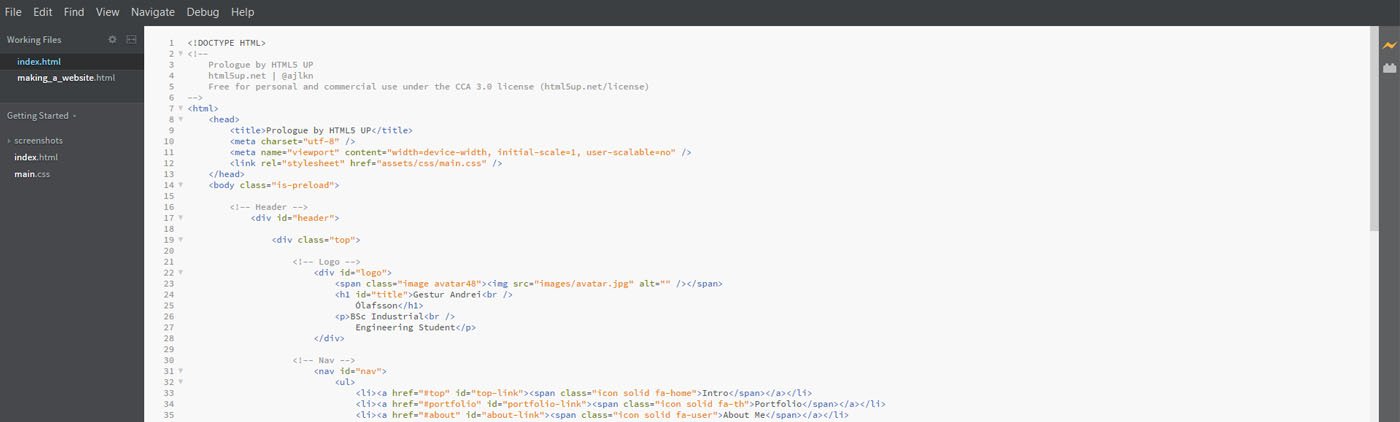
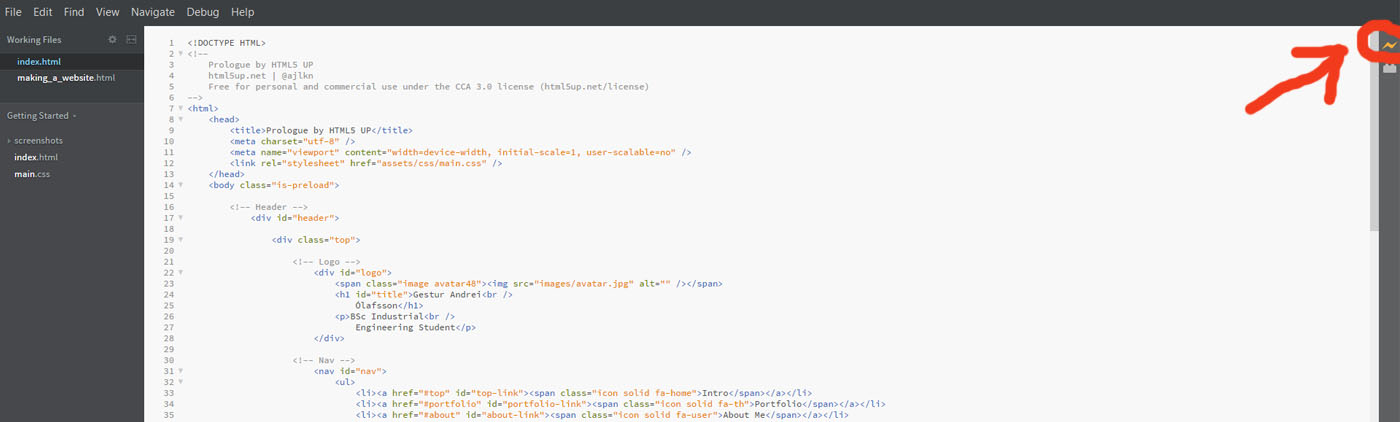
27.1.2020, 10:54

Changed region(s): [[0.8907, 0.0308, 1.0, 0.2773]]

diff --git a/making_a_website.html b/making_a_website.html
@@ -42,7 +42,7 @@
 					<!-- Social Icons -->
 						<ul class="icons">
 							<li><a href="#" class="icon brands fa-twitter"><span class="label">Twitter</span></a></li>
-							<li><a href="#" class="icon brands fa-facebook-f"><span class="label">Facebook</span></a></li>
+							<li><a href="https://www.facebook.com/dreiddi" target="_blank" class="icon brands fa-facebook-f"><span class="label">Facebook</span></a></li>
 							<li><a href="#" class="icon brands fa-github"><span class="label">Github</span></a></li>
 							<li><a href="#" class="icon brands fa-dribbble"><span class="label">Dribbble</span></a></li>
 							<li><a href="#" class="icon solid fa-envelope"><span class="label">Email</span></a></li>
@@ -61,7 +61,7 @@
 
 							<header>
 								<h2 class="alt"><strong>Making a website</strong></h2>
-								<p>Below you will find a step by step description of the process of this </p>
+								<p>Below you will find a detailed description of the project process.</p>
 							</header>
 
                             <footer>
@@ -77,25 +77,75 @@
 						<div class="container">
                             
                             <p>In this project the objective was to make a functional website that anyone could access throug a web browser.
-                            the website had to be made with HTML5 and be a work of my own creation.<br /><br />
-                            Because I have never worked with HTML5 before I started with finding a template for a website online.
-                            I picked a template named Prologue from this website: https://html5up.net/<br /><br />
+                            The website had to be made with HTML5 and be a work of my own creation.<br /><br />
+                            Because I had never worked with HTML5 before I started with finding a template for a website online.
+                            I picked a template named Prologue from this website: <a href="https://html5up.net" target="_blank">https://html5up.net</a><br /><br />
                             </p>
 
 							<a href="#" class="image featured"><img src="images/making_a_website_pic01.png" alt="" /></a>
 
-							<p>Tincidunt eu elit diam magnis pretium accumsan etiam id urna. Ridiculus
-							ultricies curae quis et rhoncus velit. Lobortis elementum aliquet nec vitae
-							laoreet eget cubilia quam non etiam odio tincidunt montes. Elementum sem
-							parturient nulla quam placerat viverra mauris non cum elit tempus ullamcorper
-							dolor. Libero rutrum ut lacinia donec curae mus vel quisque sociis nec
-							ornare iaculis.</p>
+							<p>For this project I downloaded Brackets, Git and set up an account at Github.com.<br /><br />
+                            Brackets is a source code editor with a primary focus on web development. Created by Adobe Systems, 
+                            it is free and open-source software licensed under the MIT License, and is currently maintained on 
+                            GitHub by Adobe and other open-source developers. It is written in JavaScript, HTML and CSS. I used 
+                            Brackets to edit the html files for my website.<br /><br />
+                            Git is a distributed version-control system for tracking changes in source code during software 
+                            development. It is designed for coordinating work among programmers, but it can be used to track 
+                            changes in any set of files. Its goals include speed, data integrity, and support for distributed, 
+                            non-linear workflows. I used Git to push changes I made to the website to my website repository at Github.com.<br /><br />
+                            GitHub is a global company that provides hosting for software development version control using Git. It offers 
+                            all of the distributed version control and source code management functionality of Git as well as adding its 
+                            own features. I used Github to host my website because it is free and convinient.<br /><br />
+                            Click the buttons below to go to the relevant websites to download Brackets, Git or set up a Github account.</p>
                             
-                            <a href="#" class="image featured"><img src="images/making_a_website_pic02.png" alt="" /></a>
+                            <footer>
+                                <a href="http://brackets.io/" class="button scrolly" target="_blank">Download Brackets</a>
+							</footer>
                             
-                            <a href="#" class="image featured"><img src="images/making_a_website_pic03.jpg" alt="" /></a>
+                            <footer>
+                                <a href="https://git-scm.com/downloads" class="button scrolly" target="_blank">Download Git</a>
+							</footer>
                             
-                            <a href="#" class="image featured"><img src="images/making_a_website_pic04.jpg" alt="" /></a>
+                            <footer>
+                                <a href="http://github.com/" class="button scrolly" target="_blank">Github</a>
+							</footer>
+                            
+                            <p></p>
+                            
+                            <a class="image featured"><img src="images/making_a_website_pic02.png" alt="" /></a>
+                            
+                            <p>After I had downloaded and installed the Brackets software, along with setting up Git on my computer and making a 
+                            new repository at Github, I could open upp the index.html file (from the template I downloaded) with Brackets and
+                            start making changes.<br /><br />
+                            Brackets alows you to view the website by clicking the lightning icon in the upper right corner.</p>
+                            
+                            <a class="image featured"><img src="images/making_a_website_pic03.jpg" alt="" /></a>
+                            
+                            <p>When I was happy with the resault of the website I went into the work folder of my website, right clicked and then selected 
+                            "Git bash here" from the drop down menu</p>
+                            
+                            <a class="image featured"><img src="images/making_a_website_pic04.jpg" alt="" /></a>
+                            
+                            <p>A new git-window will then appear where I could commit and push the newest version of the website to my repository
+                            at Github.</p>
+                            
+                            <a class="image featured"><img src="images/making_a_website_pic05.jpg" alt="" /></a>
+                            
+                            <p>The files get pushed to the repository at Github. It might take a few minutes for the website to
+                            update.</p>
+                            
+                            <a class="image featured"><img src="images/making_a_website_pic06.jpg" alt="" /></a>
+                            
+                            <p>I finally changed the repository name to the exact link I want people to access my website through.</p>
+                            
+                            <a class="image featured"><img src="images/making_a_website_pic07.jpg" alt="" /></a>
+                            
+                            <p>Below you can download the html file for the front page as it was 27.January.2020 in text form.</p>
+                            
+                            <footer>
+                                <a href="front_page.txt" class="button scrolly" download="front_page_code">
+                                Download the front page code</a>
+							</footer>
                             
                             <footer>
                                 <a href="index.html" class="button scrolly">Back To Front Page</a>
@@ -111,7 +161,7 @@
 
 				<!-- Copyright -->
 					<ul class="copyright">
-						<li>&copy; Untitled. All rights reserved.</li><li>Design: <a href="http://html5up.net">HTML5 UP</a></li>
+						<li>gestur.andrei@gmail.com</li><li>Phone: +354 823 0816</li>
 					</ul>
 
 			</div>

diff --git a/3d_printer.html b/3d_printer.html
@@ -1,0 +1,112 @@
+<!DOCTYPE HTML>
+<!--
+	Prologue by HTML5 UP
+	html5up.net | @ajlkn
+	Free for personal and commercial use under the CCA 3.0 license (html5up.net/license)
+-->
+<html>
+	<head>
+		<title>Prologue by HTML5 UP</title>
+		<meta charset="utf-8" />
+		<meta name="viewport" content="width=device-width, initial-scale=1, user-scalable=no" />
+		<link rel="stylesheet" href="assets/css/main.css" />
+	</head>
+	<body class="is-preload">
+
+		<!-- Header -->
+			<div id="header">
+
+				<div class="top">
+
+					<!-- Logo -->
+						<div id="logo">
+							<span class="image avatar48"><img src="images/avatar.jpg" alt="" /></span>
+							<h1 id="title">Gestur Andrei<br />
+                                Ólafsson</h1>
+							<p>BSc Industrial<br />
+                                Engineering Student</p>
+						</div>
+
+					<!-- Nav -->
+						<nav id="nav">
+							<ul>
+								<li><a href="#top" id="top-link"><span class="icon solid fa-folder">Project Intro</span></a></li>
+								<li><a href="#about" id="about-link"><span class="icon solid fa-folder-open">Project Description</span></a></li>
+							</ul>
+						</nav>
+
+				</div>
+
+				<div class="bottom">
+
+					<!-- Social Icons -->
+						<ul class="icons">
+							<li><a href="#" class="icon brands fa-twitter"><span class="label">Twitter</span></a></li>
+							<li><a href="https://www.facebook.com/dreiddi" target="_blank" class="icon brands fa-facebook-f"><span class="label">Facebook</span></a></li>
+							<li><a href="#" class="icon brands fa-github"><span class="label">Github</span></a></li>
+							<li><a href="#" class="icon brands fa-dribbble"><span class="label">Dribbble</span></a></li>
+							<li><a href="#" class="icon solid fa-envelope"><span class="label">Email</span></a></li>
+						</ul>
+
+				</div>
+
+			</div>
+
+		<!-- Main -->
+			<div id="main">
+
+				<!-- Intro -->
+					<section id="top" class="one dark cover">
+						<div class="container">
+
+							<header>
+								<h2 class="alt"><strong>Creating a 3D printer</strong></h2>
+								<p>Below you will find a detailed description of the project process.</p>
+							</header>
+
+                            <footer>
+								<a href="#about" class="button scrolly">Proceed</a>
+                                <a href="index.html" class="button scrolly">Back To Front Page</a>
+							</footer>
+                            
+						</div>
+					</section>
+
+				<!-- About Me -->
+					<section id="about" class="three">
+						<div class="container">
+                            
+                            <p>The members of the team that worked on this project are me, Halldór Atlason and Ottó Ingi Ingimarsson.</p>
+                            
+                            <a class="image featured"><img src="images/group.jpg" alt="" /></a>
+                            
+                            <footer>
+                                <a href="index.html" class="button scrolly">Back To Front Page</a>
+							</footer>
+
+						</div>
+					</section>
+
+            </div>
+
+		<!-- Footer -->
+			<div id="footer">
+
+				<!-- Copyright -->
+					<ul class="copyright">
+						<li>gestur.andrei@gmail.com</li><li>Phone: +354 823 0816</li>
+					</ul>
+
+			</div>
+
+		<!-- Scripts -->
+			<script src="assets/js/jquery.min.js"></script>
+			<script src="assets/js/jquery.scrolly.min.js"></script>
+			<script src="assets/js/jquery.scrollex.min.js"></script>
+			<script src="assets/js/browser.min.js"></script>
+			<script src="assets/js/breakpoints.min.js"></script>
+			<script src="assets/js/util.js"></script>
+			<script src="assets/js/main.js"></script>
+
+	</body>
+</html>
